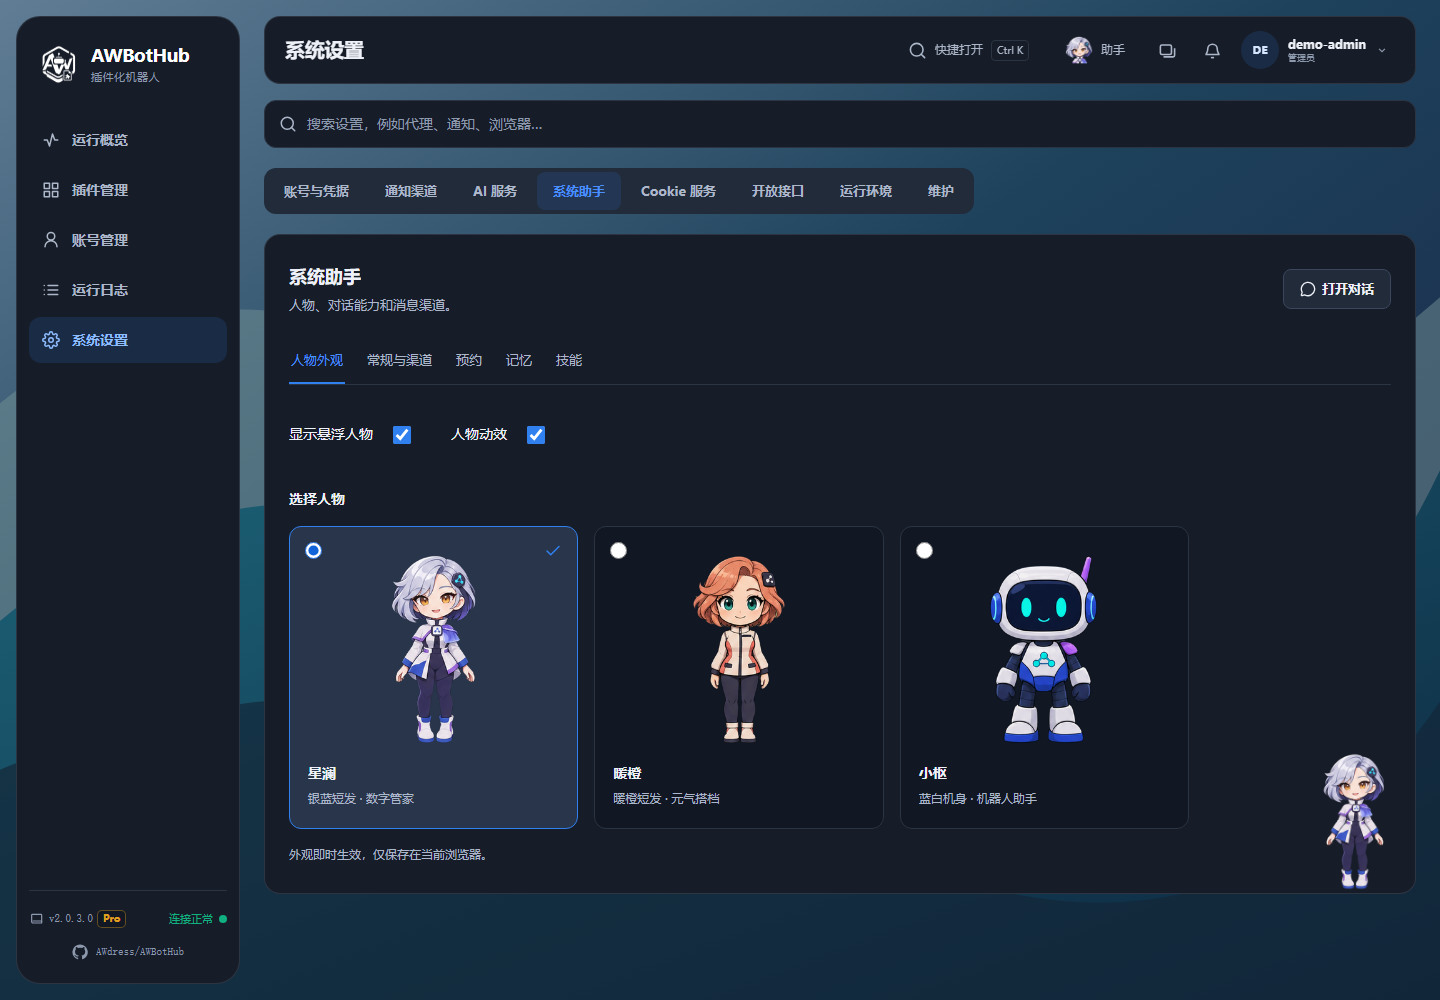
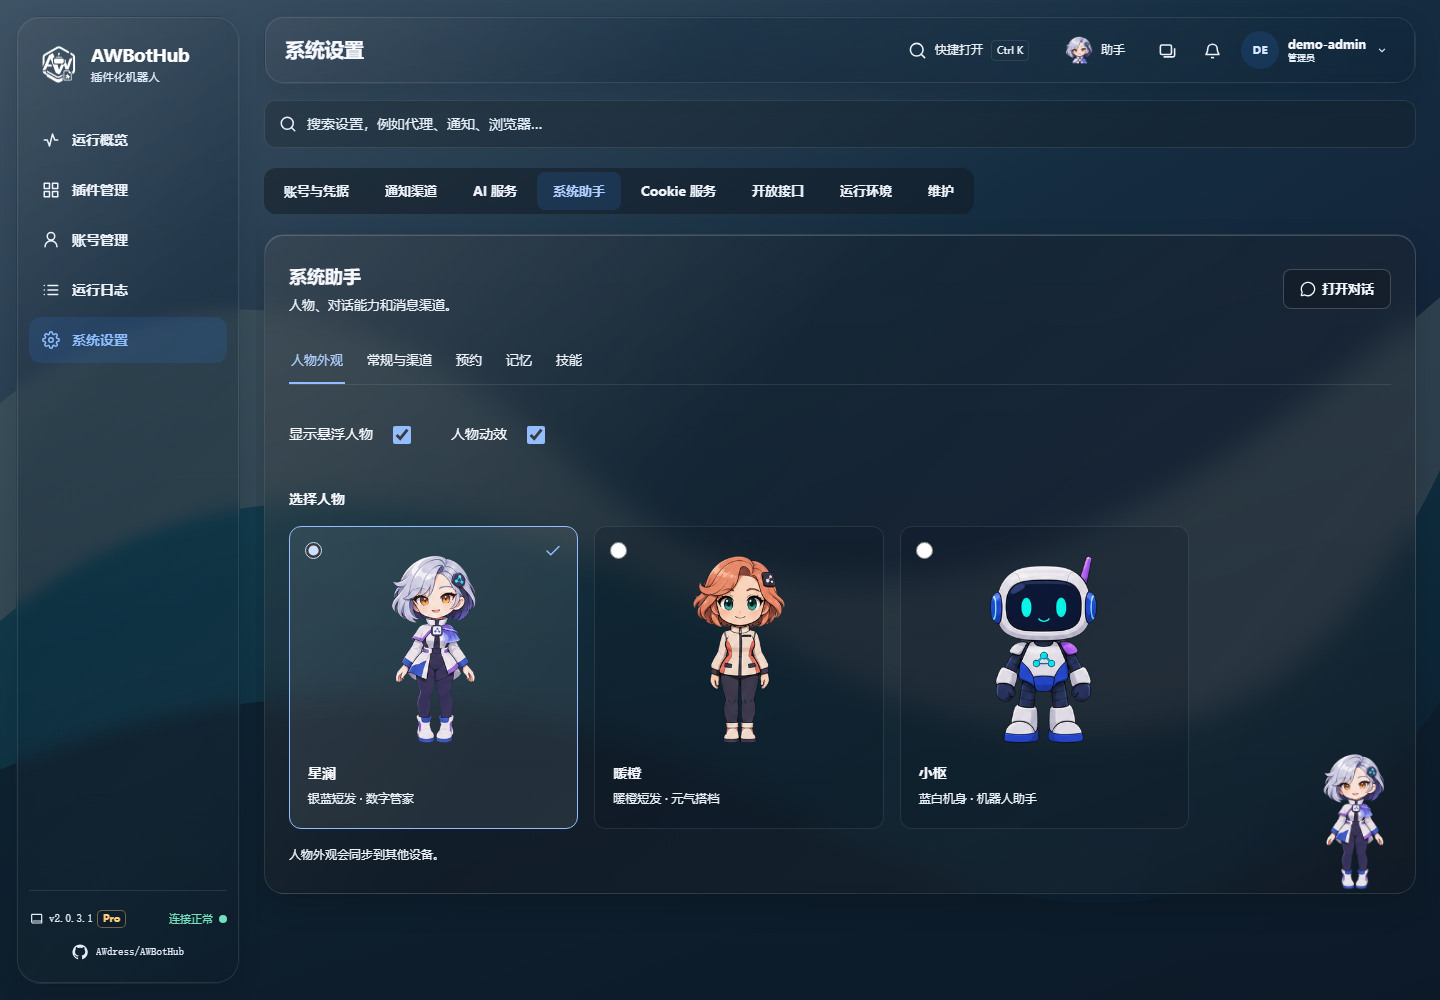
docs: v2.0.3.1 界面偏好与助手提醒

diff --git a/docs/ASSISTANT.md b/docs/ASSISTANT.md
@@ -25,9 +25,9 @@
 
 对话窗口只保留聊天、历史会话、附件和执行确认；需要调整上述内容时，到系统设置操作。
 
-「人物外观」可选择**星澜**（银蓝短发）、**暖橙**（暖橙短发）或**小枢**（蓝白机器人）。选择后立即生效，无需另外保存。人物选择、「显示悬浮人物」和「人物动效」只保存在当前浏览器，并按登录用户区分，不会同步到其他设备。模型、权限、渠道等设置仍需点击相应的保存按钮。
+「人物外观」可选择**星澜**（银蓝短发）、**暖橙**（暖橙短发）或**小枢**（蓝白机器人）。选择后立即生效，无需另外保存。人物选择、「显示悬浮人物」和「人物动效」保存在系统中，换浏览器、无痕窗口或手机登录后也能恢复。模型、权限、渠道等设置仍需点击相应的保存按钮。
 
-人物默认出现在右下方，可拖到合适的位置；电脑和手机分别记住位置。闲置后会走到最近的侧边探头，鼠标移到探头上会出来；触屏先点探头唤出，再点人物打开对话。新通知和操作提示可以显示在人物旁边，点击「查看通知」打开通知中心，关闭气泡不会把通知标为已读。
+人物默认出现在右下方，可拖到合适的位置；电脑和手机分别在当前浏览器记住位置。闲置后会走到最近的侧边探头，鼠标移到探头上会出来；触屏先点探头唤出，再点人物打开对话。未读通知、新通知和操作提示可以显示在人物旁边，点击「查看通知」打开通知中心，关闭气泡不会把通知标为已读。
 
 不需要人物时，关闭「显示悬浮人物」，仍可从顶部打开助手。关闭「人物动效」只停止人物动画，不影响对话和消息提示；浏览器遵循系统的减少动态效果偏好。
 

diff --git a/docs/guide/First-Run.md b/docs/guide/First-Run.md
@@ -66,13 +66,13 @@
 
 ![仪表板卡片显示设置](images/dashboard-layout.jpg)
 
-手机和电脑的首页布局分别保存。隐藏“账号”或“即将执行”卡片不会让账号下线，也不会取消定时任务。底部的资源占用信息固定显示，不参与卡片调整。
+手机和电脑共用一套首页布局，手机会自动适配屏幕。隐藏“账号”或“即将执行”卡片不会让账号下线，也不会取消定时任务。底部的资源占用信息固定显示，不参与卡片调整。
 
 ### 主题与界面偏好
 
 可从主题菜单切换深色或透明主题，也可到“系统设置 → 账号与凭据 → 界面外观”选择背景。透明主题会让卡片透出背景，菜单和输入内容仍保持可读。
 
-主题、背景、插件常用与分组、最近打开记录和首页布局保存在**当前浏览器**中；界面整理按管理员用户名区分。它们不是服务器上的插件业务配置，更换浏览器、清除网站数据或更换访问域名后，不会自动带过去。
+主题、背景、插件常用与分组、最近打开记录、首页布局和助手外观保存在**系统数据目录**中。换浏览器、无痕窗口、更换访问域名或使用手机，登录同一系统后会恢复设置；保留数据目录升级或重建容器也不会丢失。网络异常时会保留本机更改并提示，恢复连接后重试保存。
 
 ## 3. 先分清 Telegram 用户账号与 Bot
 

diff --git a/README.md b/README.md
@@ -24,6 +24,7 @@ https://github.com/user-attachments/assets/84ee9d34-f2c6-4883-8931-bebb4851f3e8
 - **多 Bot 与路由**：可以接入多个 Telegram Bot，并为不同插件指定发送账号和通知渠道。
 - **AI 服务**：统一配置文字、识图和生图模型，支持自动识别 Chat Completions、Responses 和 Anthropic Messages；插件无需保存 API Key，也能限制每个插件可用的能力。
 - **系统助手**：查询状态和插件日志，按步骤调用已授权的插件动作；支持会话、确认、记忆、技能和预约任务。可切换三套人物，用气泡查看消息；助手设置集中在「系统设置 → 系统助手」。使用方法见[系统助手](docs/ASSISTANT.md)。
+- **界面偏好**：主题、仪表盘和助手外观随系统保存，换浏览器或手机登录后也能恢复，手机与电脑共用一套仪表盘布局。
 - **Cookie 服务**：支持浏览器 CookieCloud 直连和远程 CookieCloud 定时同步，插件按授权域名读取。
 - **插件管理更完整**：支持版本更新、热重载、自检、运行诊断、日志查看和 Vue 配置界面。
 - **开放 API**：可以让自动化脚本或其他服务管理插件、读取状态和发送 Telegram 消息。

diff --git a/docs/guide/Troubleshooting.md b/docs/guide/Troubleshooting.md
@@ -304,7 +304,7 @@ docker inspect AWBotNest_V2 --format 'StartedAt={{.State.StartedAt}} RestartCoun
 | 找不到很久以前的对话或原图 | 助手历史有保留范围；只保存脱敏后的识别资料，原始图片、语音不写入会话数据库 |
 | 找不到预约、记忆、技能或助手设置 | 到“系统设置 → 系统助手”选择对应分类；对话窗口只用于聊天和会话操作 |
 | 悬浮人物没有出现 | 检查“系统设置 → 系统助手 → 人物外观”的“显示悬浮人物”；人物可能已靠边探头，触屏先点探头唤出 |
-| 换浏览器后人物或位置不同 | 人物偏好按当前浏览器和登录用户保存，不跨设备同步；电脑和手机分别记住位置 |
+| 换浏览器后人物或位置不同 | 登录后会恢复人物外观；如有保存失败提示，恢复连接后重试。人物拖动位置仍由当前浏览器分别记住电脑和手机的位置 |
 
 助手停止、提交超时或网页关闭后，不要立刻重复要求同一修改。先核对执行步骤与实际配置；已经完成的操作不会因停止自动撤销，结果不明的外部提交也不会自动重发。
 

diff --git a/CHANGELOG.md b/CHANGELOG.md
@@ -4,6 +4,16 @@
 
 这里记录每个版本给用户带来的新功能、改进和问题修复。
 
+## v2.0.3.1
+
+这一版让界面设置随系统保存，并改进助手提示和设置显示。
+
+- 主题、背景、插件收藏与分组、最近使用记录、仪表盘和助手外观保存在系统中，登录后换浏览器、无痕窗口或手机也能恢复；保留数据目录升级或重建容器不会丢失。
+- 手机和电脑使用同一套仪表盘布局，手机自动适配；调整窗口大小不会改写已保存的卡片位置和大小。
+- 未读通知增加人物气泡提醒，刷新不重复播放已提醒的消息；查看或关闭气泡不会自动标为已读。
+- 修复助手设置切回人物外观后，底部仍显示管理内容和透明主题重复卡片的问题。
+- 修复减少动态效果模式下，菜单打开瞬间位置闪动的问题。
+
 ## v2.0.3.0
 
 这一版为系统助手增加可切换的人物与消息气泡，并将助手设置集中到系统设置。

diff --git a/docs/guide/System-Assistant.md b/docs/guide/System-Assistant.md
@@ -84,7 +84,7 @@
 
 人物可以拖动，不会因拖动误打开对话。闲置后会侧身走到最近的侧边，只露出探头；鼠标移上去会出来，移开后再等待片刻收起。手机上先点探头唤出，再点人物打开对话。新通知会唤出人物并显示气泡，点击「查看通知」打开原通知中心；关闭气泡不会将通知标为已读。
 
-人物选择、显示开关和动效开关只保存在当前浏览器，并按登录用户区分；拖动位置还会分别记住电脑和手机布局，不跨浏览器或设备同步。模型、权限、渠道等设置仍按页面按钮保存，不属于这些本地外观偏好。
+人物选择、显示开关和动效开关保存在系统中，换浏览器、无痕窗口或手机登录后也能恢复。拖动位置仍按当前浏览器分别记住电脑和手机的位置。模型、权限、渠道等设置仍按页面按钮保存。
 
 ### 助手设置在哪里？
 

diff --git a/docs/PLUGIN_GUIDE.md b/docs/PLUGIN_GUIDE.md
@@ -880,7 +880,7 @@ GET /api/dashboard/widgets/hello_world/overview
 采集共用原有插件 Governor 和后台任务归属，另有全局 4 个只读采集名额及 5 秒期限；
 用户关闭页面不会取消其他页面共用的采集。回调必须使用真正异步 I/O、合理设置内部超时，
 并让 `asyncio.CancelledError` 继续传播，不能自己创建脱离系统追踪的任务。
-卡片大小、排序、显隐由系统前端分别保存电脑和手机布局，插件不应自行保存或覆盖它们。
+卡片大小、排序、显隐由系统统一保存，电脑和手机共用一套布局，手机自动适配；插件不应自行保存或覆盖它们。
 
 此接口属于 Plugin API 2。插件需要支持未提供此接口的系统时，可用
 `if hasattr(ctx, "dashboard"):` 包裹注册；回退系统前应核对插件所需接口，

diff --git a/docs/SPEC.md b/docs/SPEC.md
@@ -93,6 +93,8 @@ Vue 插件暴露 `./Config`，随插件发布构建好的 `frontend/dist/remoteE
 
 `ctx.dashboard.register()` 注册无参数异步只读采集回调，返回受支持的统计结构，不返回任意 HTML、JS 或组件。只读取插件自己已获授权的数据，不执行任务、写配置或发送通知，也不直接返回整份配置或数据库记录。
 
+卡片大小、排序和显隐统一保存在系统中，电脑和手机共用一套布局，手机自动适配；插件不应自行保存或覆盖布局。
+
 系统助手可发现已注册的 `ctx.action()`，不要求声明 `agent_exposed=True`。助手不执行任意插件方法或私有 API。写操作须管理员授权和逐次确认；未声明参数的动作在助手中只接受空对象，不能凭按钮名猜参数。
 
 ## 安全边界

diff --git a/docs/guide/Plugins.md b/docs/guide/Plugins.md
@@ -34,7 +34,7 @@
 - **显示方式：** 工具栏的两个图标可切换“卡片视图”和“紧凑列表”；插件较多时，列表更方便浏览。
 - **详情：** 点击信息图标或三点菜单中的“插件详情”，查看来源、版本、依赖与运行情况；它与“配置”不是同一个窗口。
 
-常用、分组和显示方式是当前浏览器的界面偏好，不会更改插件业务配置，也不代表新的权限隔离。其他浏览器不会自动同步这些偏好。
+常用、分组和显示方式保存在系统中，换浏览器或手机登录后也能恢复。这些界面偏好不会更改插件业务配置，也不代表新的权限隔离。
 
 ## 2. 从插件市场安装
 
